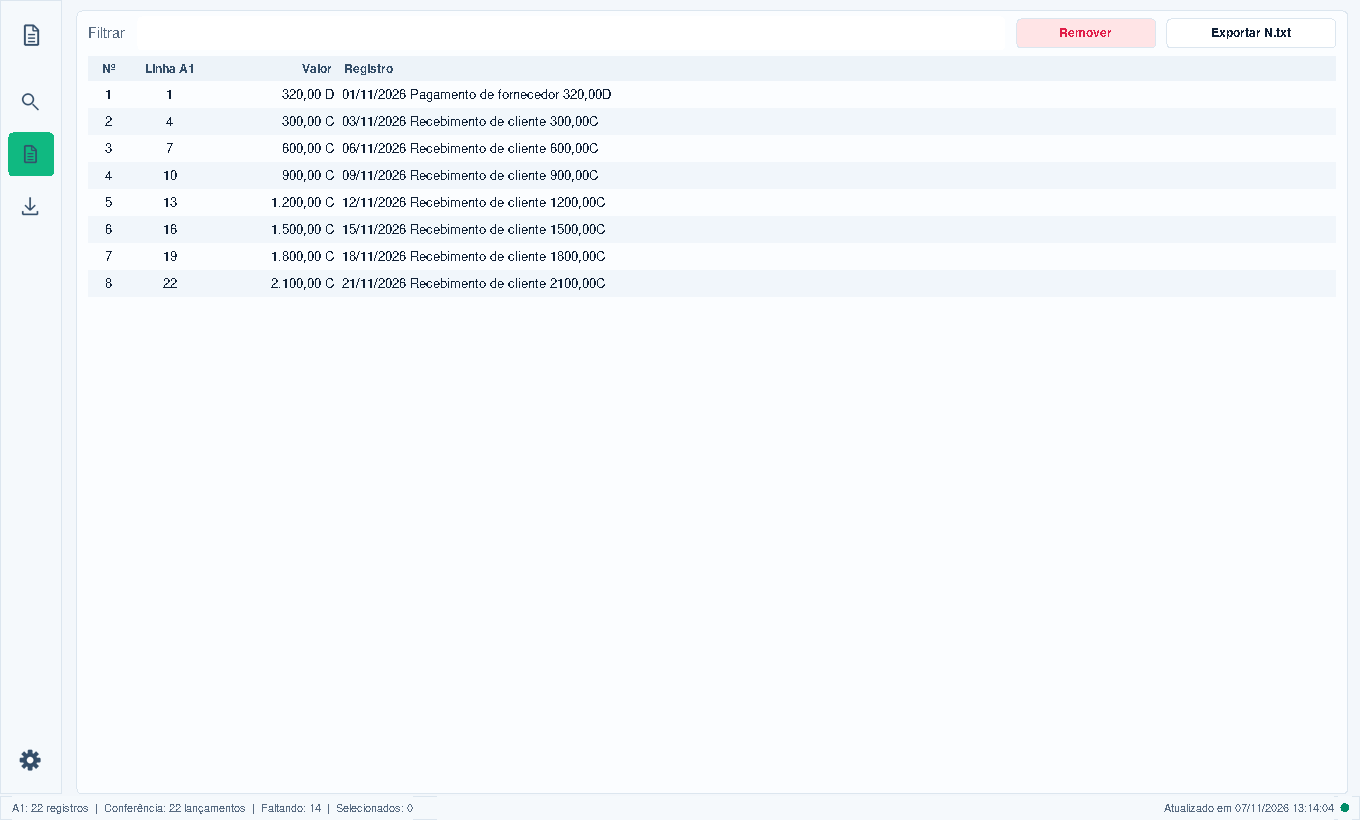
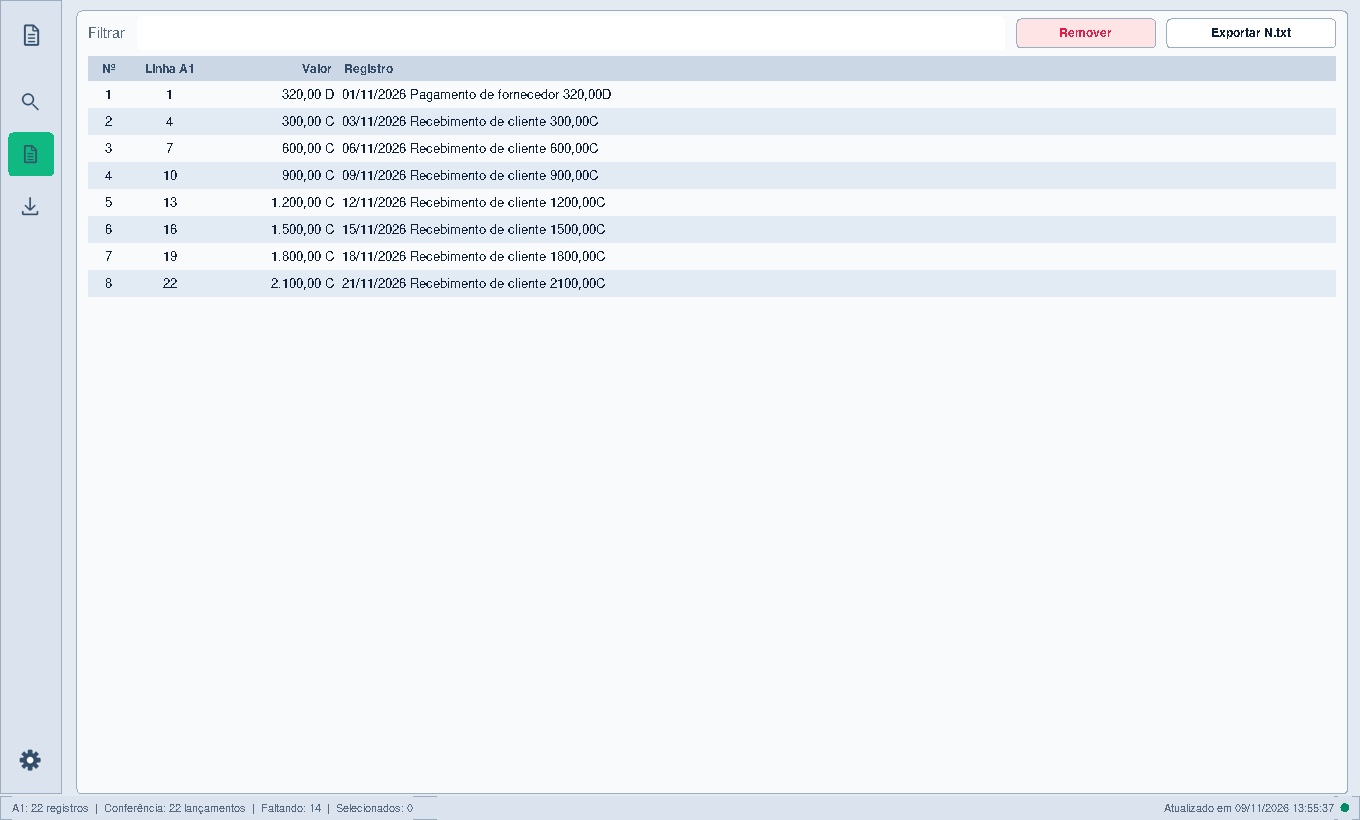
ui: melhora contraste dos campos e linhas no tema claro

Changed region(s): [[0.0, 0.0, 1.0, 1.0]]

diff --git a/main.py b/main.py
@@ -51,18 +51,18 @@ TESSERACT_PORTATIL = Path(__file__).resolve().parent / "Tesseract-OCR"
 # TEMAS  (cada cor: (claro, escuro))
 
 TEMAS = {
-    "bg": ("#f3f7fb", "#06121e"),
-    "painel": ("#fbfdff", "#0b1c2b"),
-    "superficie": ("#f5f9fc", "#071724"),
-    "borda": ("#dce6ef", "#183143"),
+    "bg": ("#e4eaf1", "#06121e"),
+    "painel": ("#f8fafc", "#0b1c2b"),
+    "superficie": ("#dbe4ee", "#071724"),
+    "borda": ("#9aadc1", "#183143"),
     "campo": ("#ffffff", "#152c3d"),
-    "campo_hover": ("#eaf0f6", "#203b4e"),
+    "campo_hover": ("#dce6f1", "#203b4e"),
     "selecao": ("#d9eaff", "#123e67"),
     "texto": ("#102036", "#f0f6fc"),
     "cinza": ("#586b81", "#acbfd1"),
     "cabecalho": ("#344e69", "#bfd1e2"),
-    "grade_cabecalho": ("#edf3f9", "#071826"),
-    "alternada": ("#f1f6fb", "#102332"),
+    "grade_cabecalho": ("#cbd7e5", "#071826"),
+    "alternada": ("#e2eaf3", "#102332"),
     "verde": ("#008b66", "#00d6a0"),
     "vermelho": ("#e11d48", "#ff416c"),
     "marcado": ("#fef08a", "#3b2d54"),

diff --git a/README.md b/README.md
@@ -58,8 +58,9 @@ As medidas acompanham a escala do sistema e são iguais nos temas claro e escuro
 A situação aparece antes do registro, ficando visível mesmo em linhas longas.
 Na conferência, registros **OK** ficam em verde e **FALTA NO A2** em vermelho,
 tanto no tema claro quanto no escuro.
-O tema escuro usa fundos em azul profundo e o claro mantém os painéis brancos,
-com bordas discretas e faixas alternadas para acompanhar cada linha.
+O tema escuro usa fundos em azul profundo. O tema claro diferencia o fundo
+cinza-azulado, os campos brancos e os painéis claros, com bordas mais marcadas,
+cabeçalhos sombreados e faixas alternadas de maior contraste nas tabelas.
 A seleção da conferência preserva o verde e o vermelho sobre um fundo azul
 adequado a cada tema; linhas selecionadas no A1 e na Lista A2 usam texto branco.
 O botão de inclusão fica neutro enquanto não houver seleção.
